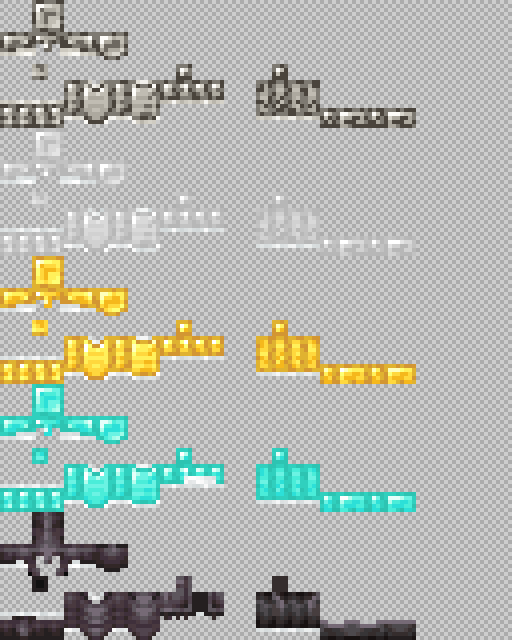
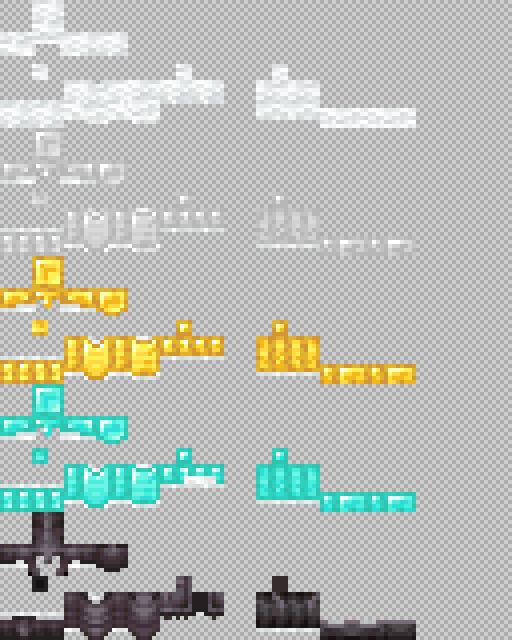
更新羊毛护甲穿戴贴图为手绘版，版本号升至 1.1.0
- wool_layer_1/2.png 替换为手绘版（64x32，颜色数 38/37，无半透明杂边）。
- mod_version 1.0.0 -> 1.1.0，产物变为 盔甲附加-1.1.0.jar。
- README 与 sync-from-mcreator.ps1 中的产物路径改为版本无关写法，
  避免每次升版本都要改文档。
- 重新生成五套总览预览。

Changed region(s): [[0.0, 0.0938, 0.4375, 0.2188], [0.5, 0.0938, 0.8125, 0.2188], [0.0, 0.0, 0.25, 0.125]]

diff --git a/README.md b/README.md
@@ -237,7 +237,7 @@ Fabric 版见同级目录 `armor-addon/`。
 ## 安装
 
 1. 安装 Minecraft 1.21.1 的 **NeoForge**（21.1.244 或更高的 21.1.x）。
-2. 将 `build/libs/盔甲附加-1.0.0.jar` 放入 `.minecraft/mods/`。
+2. 将 `build/libs/盔甲附加-<版本>.jar`（当前为 `盔甲附加-1.1.0.jar`）放入 `.minecraft/mods/`。
 
 **不需要**额外的前置模组。
 
@@ -253,7 +253,7 @@ gradlew.bat build
 ./gradlew build
 ```
 
-产物位于 `build/libs/盔甲附加-1.0.0.jar`（文件名在 `build.gradle` 的 `base.archivesName` 里设置）。
+产物位于 `build/libs/盔甲附加-<版本>.jar`（文件名在 `build.gradle` 的 `base.archivesName` 里设置，版本号取自 `gradle.properties` 的 `mod_version`）。
 
 > 本次构建使用的是工作区内的 Gradle 缓存目录 `../.gradle-home`。想复用它以免重新下载：
 >
@@ -301,7 +301,7 @@ gradlew.bat runServer
 日志里出现下面两行即说明盔甲与配方均已正确注册：
 
 ```
-盔甲附加 1.0.0 (armor_addon)
+盔甲附加 (Armor Addon) 1.1.0 (armor_addon)
 Loaded 1314 recipes        # 原版 1290 + 本模组 24 条（工作台 20 + 锻造台 4）
 ```
 
